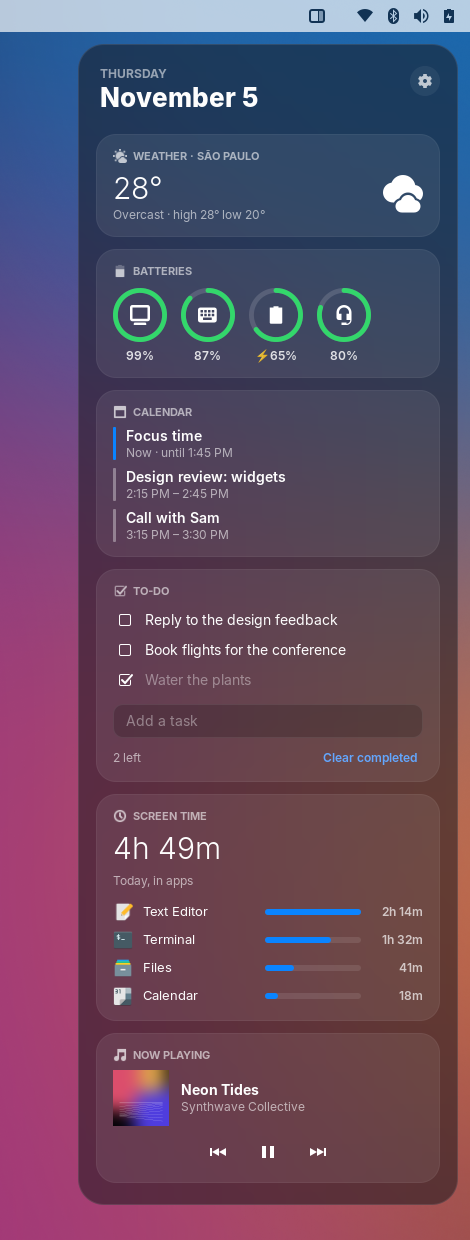
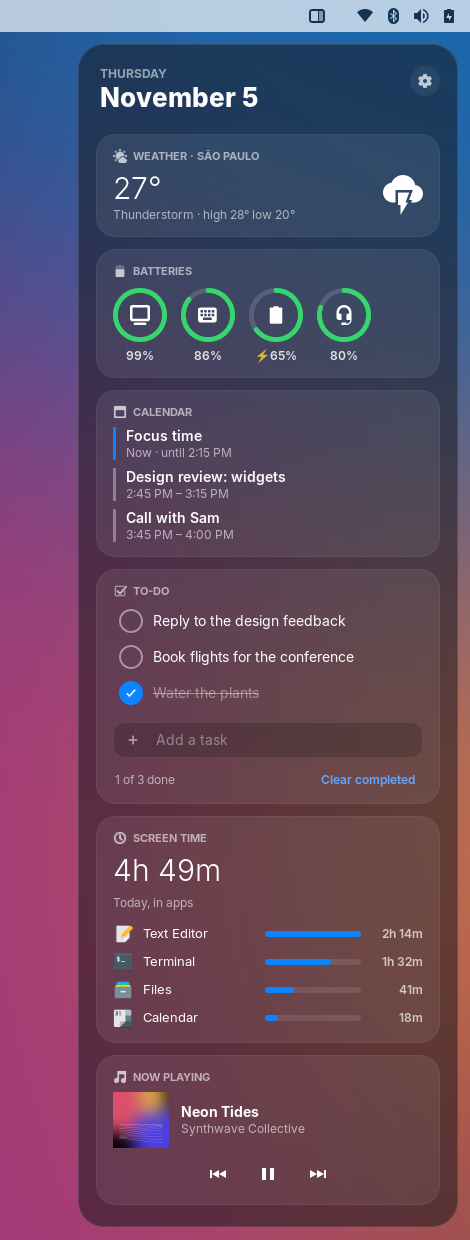
docs: changelog and screenshots for the to-do redesign

diff --git a/CHANGELOG.md b/CHANGELOG.md
@@ -7,6 +7,19 @@ and this project adheres to [Semantic Versioning](https://semver.org/spec/v2.0.0
 
 ## [Unreleased]
 
+### Fixed
+
+- To-do: checking off a task moved it to the end of the list, so the task
+  under the pointer changed and the next click toggled a different one.
+  Finished tasks now stay where they are, and rows update in place.
+
+### Changed
+
+- To-do redesign: round checkboxes that fill in when done, struck-through
+  finished tasks, a trash button on hover, an add field with a plus icon, and
+  an "N of M done" summary. The list shows about five tasks and scrolls for
+  the rest; adding a task scrolls to it.
+
 ## [0.3.0] - 2026-11-05
 
 ### Added
